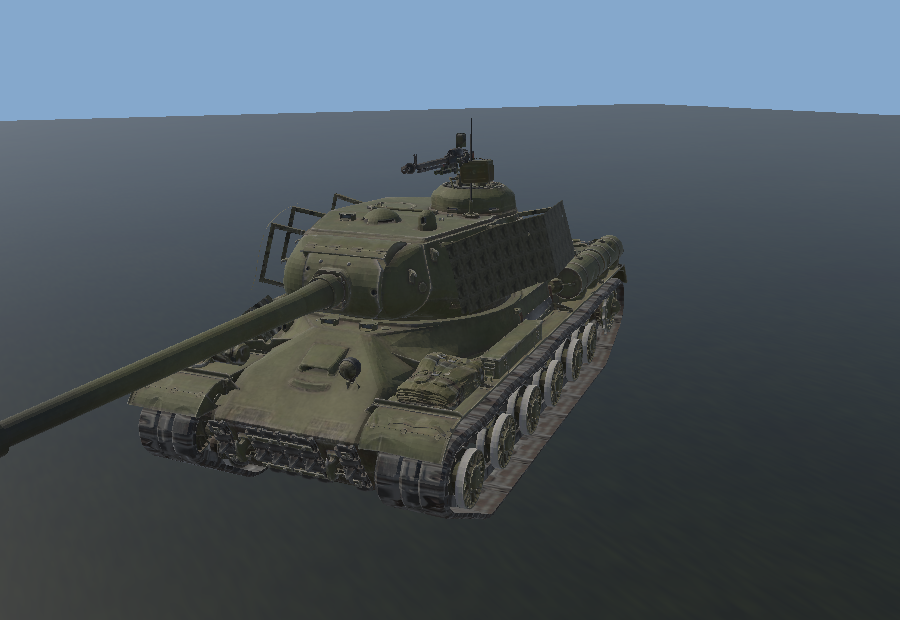
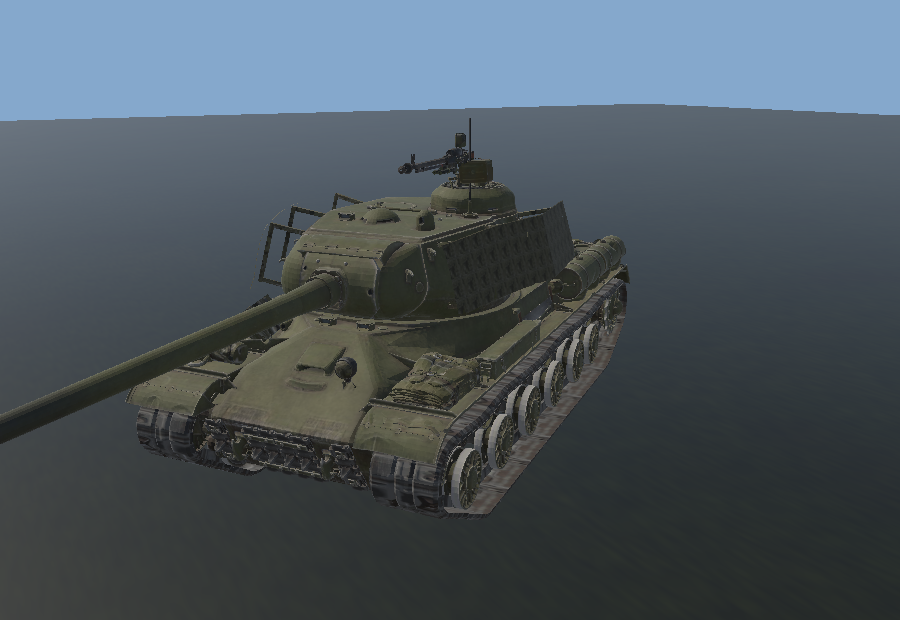
1.2.6: исправлены башни, орудия, гусеницы и тени

diff --git a/index.html b/index.html
@@ -1,4 +1,4 @@
-<!DOCTYPE html>
+<!DOCTYPE html>
 <html lang="ru">
 <head>
   <meta charset="utf-8">
@@ -96,7 +96,7 @@
         </div>
       </div>
       <div class="hero-version">
-        <span class="pulse"></span> СБОРКА <b id="version-badge">1.2.5</b>
+        <span class="pulse"></span> СБОРКА <b id="version-badge">1.2.6</b>
       </div>
       <a class="scroll-hint" href="#about" aria-label="Листать вниз"><span></span></a>
     </section>
@@ -263,7 +263,7 @@
             <code>SteelTracers.exe</code>. Установка не нужна.
           </p>
           <div class="download-meta">
-            <div><span>Версия</span><strong id="download-version">1.2.5</strong></div>
+            <div><span>Версия</span><strong id="download-version">1.2.6</strong></div>
             <div><span>Платформа</span><strong>Windows 10/11 · x64</strong></div>
             <div><span>Размер</span><strong id="download-size">40 МБ</strong></div>
             <div><span>Обновлено</span><strong id="download-date">28.10.2026</strong></div>
@@ -451,13 +451,13 @@
             Скачать Steel Tracers для Android
           </a>
           <p class="download-note">
-            Размер APK ~146 МБ: внутри новые модели и текстуры Maus, Panther A/II, КВ-2, Т-34-57 и ИС-2 1944.
+            Размер APK ~169 МБ: внутри новые модели и текстуры Maus, Panther A/II, КВ-2, Т-34-57 и ИС-2 1944.
           </p>
           <p class="download-note">
             <strong>Планшет пишет «пакет повреждён» или «недействителен»?</strong>
             Скачай версию под процессор:
-            <a href="https://media.githubusercontent.com/media/v34687120-oss/steel-tracers/gh-pages/downloads/SteelTracers-Android-arm64.apk" download>ARM64 (64-бит, 118 МБ)</a>
-            или <a href="https://media.githubusercontent.com/media/v34687120-oss/steel-tracers/gh-pages/downloads/SteelTracers-Android-armv7.apk" download>ARMv7 (32-бит, 116 МБ)</a>.
+            <a href="https://media.githubusercontent.com/media/v34687120-oss/steel-tracers/gh-pages/downloads/SteelTracers-Android-arm64.apk" download>ARM64 (64-бит, 140 МБ)</a>
+            или <a href="https://media.githubusercontent.com/media/v34687120-oss/steel-tracers/gh-pages/downloads/SteelTracers-Android-armv7.apk" download>ARMv7 (32-бит, 139 МБ)</a>.
             Для большинства планшетов Honor подходит ARM64. Перед установкой удали старую версию игры.
           </p>
         </div>
@@ -471,6 +471,17 @@
         <p>Сайт обновляется вместе с игрой: техника, характеристики и ссылка на сборку.</p>
       </div>
       <ol class="timeline" id="timeline">
+        <li>
+          <div class="timeline-date">30.10.2026</div>
+          <div class="timeline-body">
+            <h3>1.2.6 - исправлены башни, орудия и тени</h3>
+            <ul>
+              <li>Maus, Panther A/II, КВ-2, Т-34-57 и ИС-2 1944 пересобраны: башни стоят на погоне, стволы и пулемёты — на своих местах.</li>
+              <li>Танки спавнятся лбом к противнику и больше не разворачиваются боком или кормой.</li>
+              <li>Гусеницы прокручиваются, оставляют следы; исправлены тени и «рваные» силуэты на низкой графике.</li>
+            </ul>
+          </div>
+        </li>
         <li>
           <div class="timeline-date">30.10.2026</div>
           <div class="timeline-body">

diff --git a/config.js b/config.js
@@ -1,16 +1,16 @@
-/*
+/*
  * Настройки сайта Steel Tracers.
  * При выпуске обновления меняются version, updated, downloadUrl и downloadSize.
  * Ссылка на сборку может быть локальной (downloads/...) или внешней (GitHub Releases, свой сервер).
  */
 window.STEEL_TRACERS_CONFIG = {
-  version: "1.2.5",
+  version: "1.2.6",
   updated: "30.10.2026",
   updatedIso: "2026-10-30",
   downloadUrl: "https://media.githubusercontent.com/media/v34687120-oss/steel-tracers/gh-pages/downloads/SteelTracers-Windows.zip",
-  downloadSize: "121 МБ",
+  downloadSize: "143 МБ",
   macDownloadUrl: "https://media.githubusercontent.com/media/v34687120-oss/steel-tracers/gh-pages/downloads/SteelTracers.mac.zip",
-  macDownloadSize: "810 МБ",
+  macDownloadSize: "853 МБ",
   repoUrl: "",
[1 lines of base64/hex data omitted]
 };
